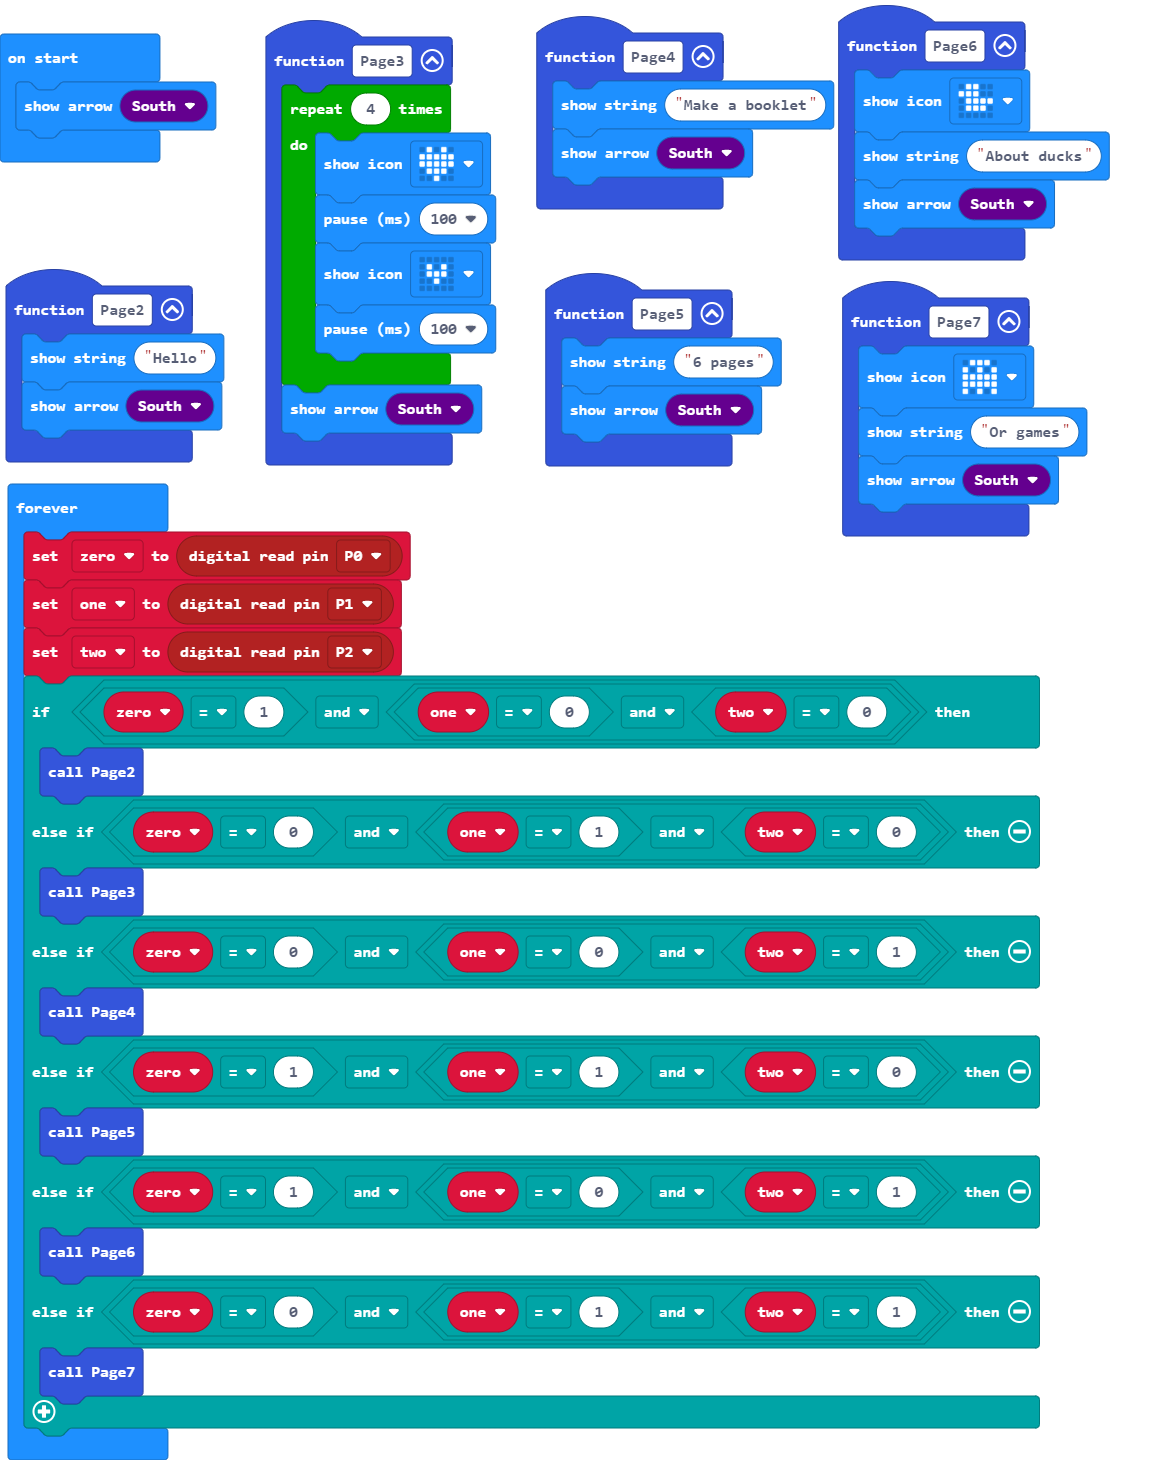
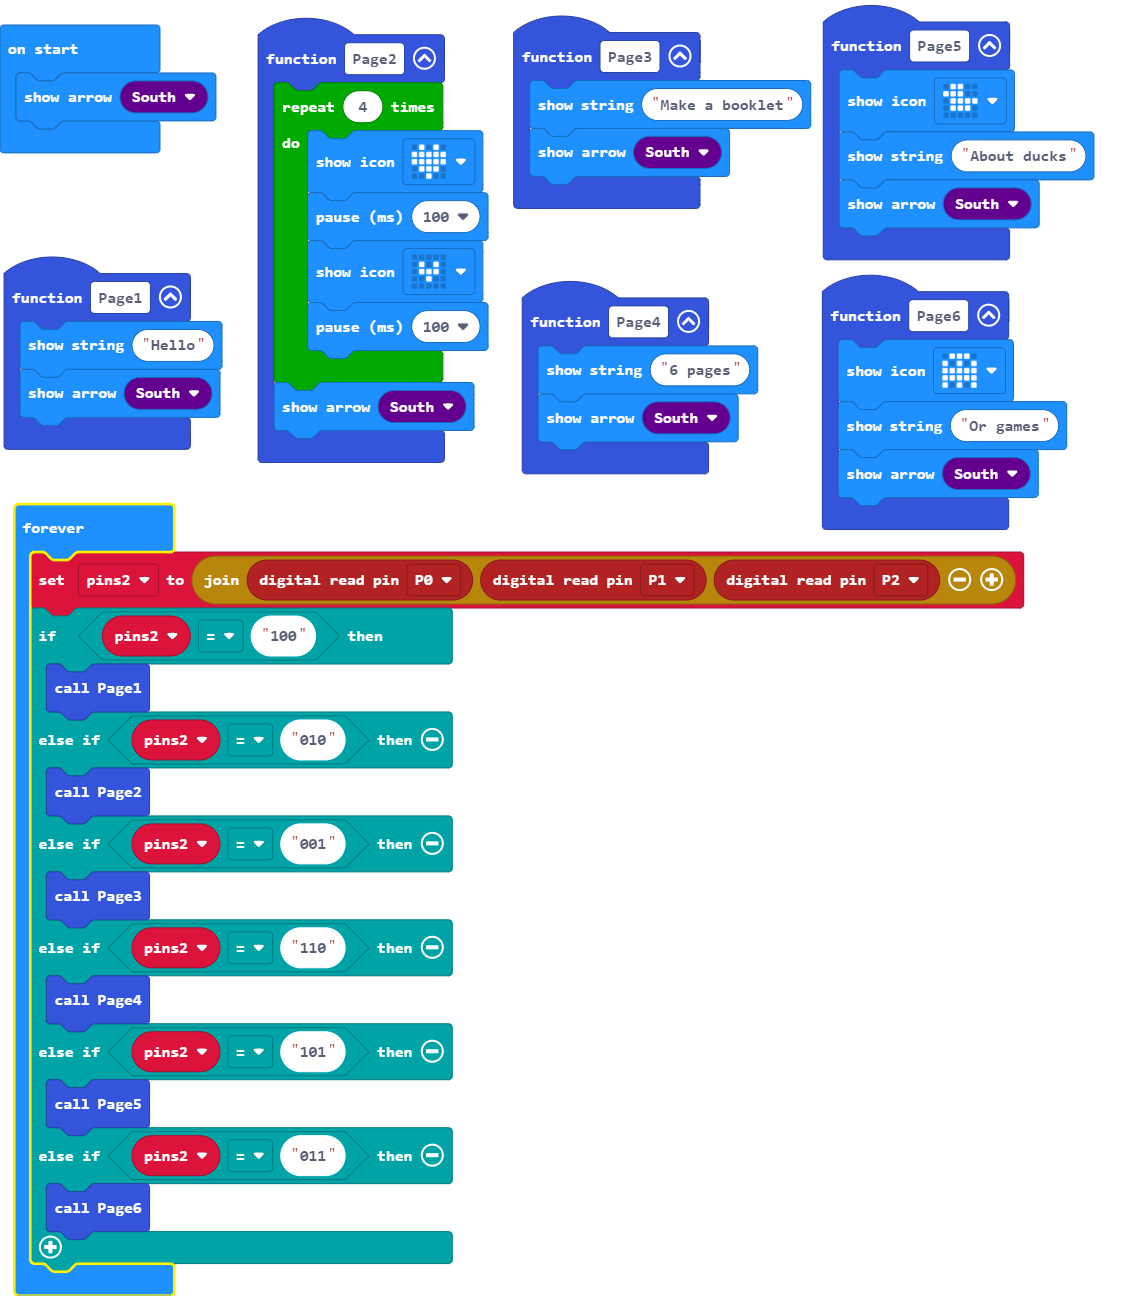
code optimized

diff --git a/main.ts b/main.ts
@@ -1,8 +1,4 @@
 function Page2 () {
-    basic.showString("Hello")
-    basic.showArrow(ArrowNames.South)
-}
-function Page3 () {
     for (let index = 0; index < 4; index++) {
         basic.showIcon(IconNames.Heart)
         basic.pause(100)
@@ -11,43 +7,43 @@ function Page3 () {
     }
     basic.showArrow(ArrowNames.South)
 }
-function Page7 () {
-    basic.showIcon(IconNames.Ghost)
-    basic.showString("Or games")
+function Page3 () {
+    basic.showString("Make a booklet")
+    basic.showArrow(ArrowNames.South)
+}
+function Page1 () {
+    basic.showString("Hello")
     basic.showArrow(ArrowNames.South)
 }
 function Page5 () {
-    basic.showString("6 pages")
-    basic.showArrow(ArrowNames.South)
-}
-function Page6 () {
     basic.showIcon(IconNames.Duck)
     basic.showString("About ducks")
     basic.showArrow(ArrowNames.South)
 }
-function Page4 () {
-    basic.showString("Make a booklet")
+function Page6 () {
+    basic.showIcon(IconNames.Ghost)
+    basic.showString("Or games")
     basic.showArrow(ArrowNames.South)
 }
-let two = 0
-let one = 0
-let zero = 0
+function Page4 () {
+    basic.showString("6 pages")
+    basic.showArrow(ArrowNames.South)
+}
+let pins2 = ""
 basic.showArrow(ArrowNames.South)
 basic.forever(function () {
-    zero = pins.digitalReadPin(DigitalPin.P0)
-    one = pins.digitalReadPin(DigitalPin.P1)
-    two = pins.digitalReadPin(DigitalPin.P2)
-    if (zero == 1 && (one == 0 && two == 0)) {
+    pins2 = "" + pins.digitalReadPin(DigitalPin.P0) + pins.digitalReadPin(DigitalPin.P1) + pins.digitalReadPin(DigitalPin.P2)
+    if (pins2 == "100") {
+        Page1()
+    } else if (pins2 == "010") {
         Page2()
-    } else if (zero == 0 && (one == 1 && two == 0)) {
+    } else if (pins2 == "001") {
         Page3()
-    } else if (zero == 0 && (one == 0 && two == 1)) {
+    } else if (pins2 == "110") {
         Page4()
-    } else if (zero == 1 && (one == 1 && two == 0)) {
+    } else if (pins2 == "101") {
         Page5()
-    } else if (zero == 1 && (one == 0 && two == 1)) {
+    } else if (pins2 == "011") {
         Page6()
-    } else if (zero == 0 && (one == 1 && two == 1)) {
-        Page7()
     }
 })
